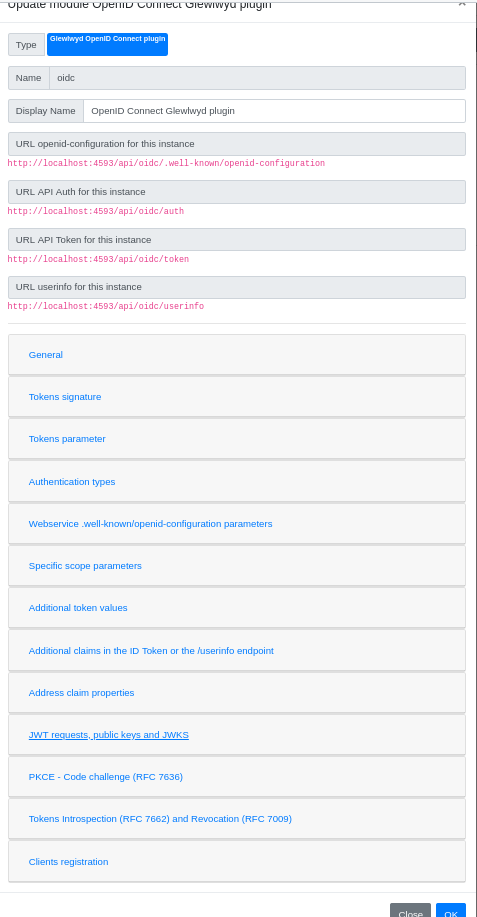
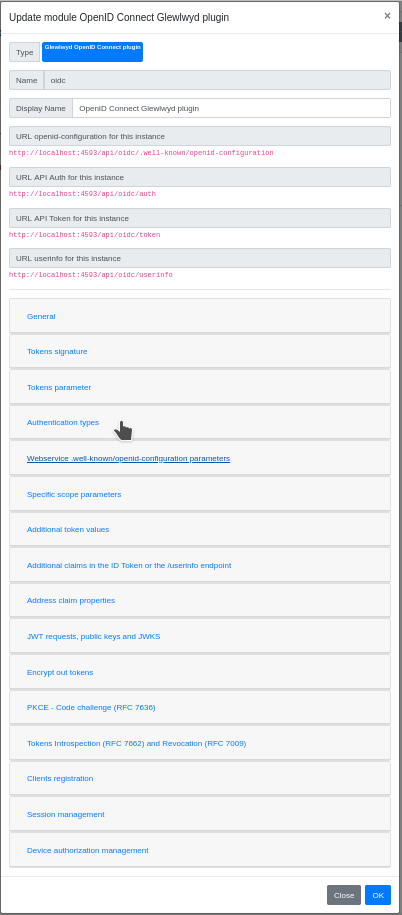
Update oidc doc and screenshots to add device auth

diff --git a/docs/OIDC.md b/docs/OIDC.md
@@ -27,6 +27,8 @@ The following OpenID Connect functionalities are currently supported:
 - [Session Management](https://openid.net/specs/openid-connect-session-1_0.html)
 - [JSON Web Token (JWT) Profile for OAuth 2.0 Access Tokens - draft 05](https://tools.ietf.org/html/draft-ietf-oauth-access-token-jwt-05)
 - [JWT Response for OAuth Token Introspection](https://tools.ietf.org/html/draft-ietf-oauth-jwt-introspection-response-08)
+- [OAuth 2.0 for Native Apps](https://tools.ietf.org/html/rfc8252), see [Native Apps Guidelines](#native-apps-guidelines)
+- [OAuth 2.0 Device Grant](https://tools.ietf.org/html/rfc8628)
 
 The following OpenID Connect functionalities are not supported yet:
 
@@ -48,7 +50,7 @@ If the key management encryption algorithm is `dir`, you must build a SHA512 has
 - `A192CBC-HS384`: 48 first bytes of the hash
 - `A256CBC-HS512`: 64 bytes of the hash
 
-### Multipls keys
+### Multiple keys
 
 If the plugin has multiple keys available, the client can choose any of them to encrypt their requests. But the client MUST set the `kid` value in the JWT header to specify the key to use for decryption.
 
@@ -219,6 +221,10 @@ Enable response type `password`.
 ### Authentication type client enabled
 
 Enable response type `client_credential`.
+
+### Authentication type device enabled
+
+Enable response type `device_code`.
 
 ### Authentication type refresh enabled
 
@@ -442,6 +448,16 @@ Add on or more scopes if you want to allow to use endpoint `/register` using val
 
 Default scopes that will be added to the registered clients, can be empty. This scope list is only used in `client_credentials` response type.
 
+## Device Authorization management
+
+### Code expiration (seconds)
+
+`device_code` expiration in seconds.
+
+### Suggested interval between code verification (seconds)
+
+If the client sends the device code in a shorter period, it will receive a `slow_down` error response.
+
 ## Client secret vs password
 
 When you add or edit a client in Glewlwyd, you can set a `client secret` or a `password`. Both can be used to authenticate confidential clients.
@@ -451,6 +467,15 @@ The primary difference is that a client secret is a string stored 'as is' in the
 A client secret has priority over a client password, which means that if a client has set both client secret and client password, the authentication will be executed with client secret only.
 
 The `client secret` can also be used to authenticate a client using the method `client_secret_jwt`.
+
+## Native Apps Guidelines
+
+Glewlwyd is conform to [OAuth 2.0 for Native Apps](https://tools.ietf.org/html/rfc8252) best current practice considering the following configuration:
+
+- Any `redirect_uri` is allowed if the client is manually added by an admin in the admin app
+- Any `https://` is allowed url or unsecure loopback (locahost/127.0.0.1/[::1]) url when the client uses the client registration encdpoint. `redirect_uris` accepted in the client registration endpoint **MUST NOT** contain username attribute (`https://username@domain.tld`)
+- [PKCE](https://tools.ietf.org/html/rfc7636) extension is supported
+- A client can be specified as public (i.e. not confidential), without secret or public key
 
 ## Glewlwyd OpenID Connect endpoints specifications
 
